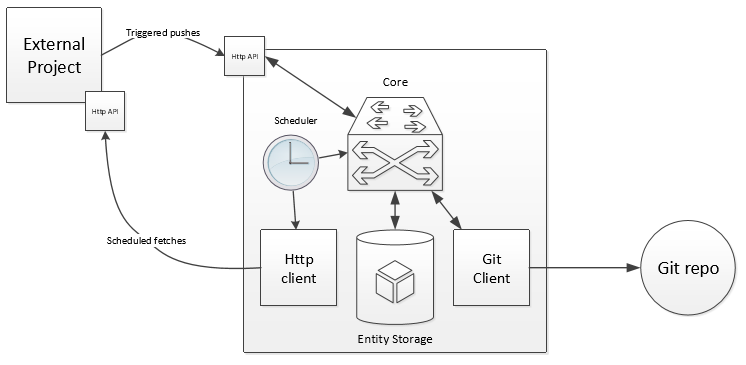
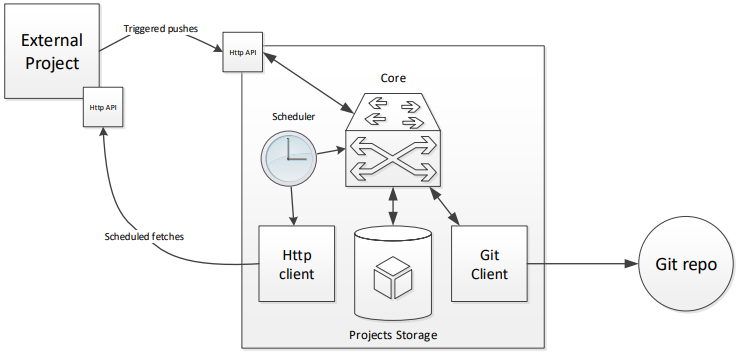
updated docs a bit

diff --git a/docs/model.rst b/docs/model.rst
@@ -4,11 +4,8 @@
 
 Основные сущности:
 
-- проект (имя, токен, описание, url endpoint для фетчинга DAGов, настройки git репы)
-- DAG (YAML) (проект, имя, описание, YAML, статус)
-- update event (событие обновления, не обязательно приводит к deploymentу)
-- deployment (сам акт выкадки ресурсов) (зачем? и так есть git log)
-- какая-то история просто на всё?
-- история DAGа -<>-
+- проект (имя, токен, url endpoint для фетчинга DAGов, настройки git репы)
+- DAG (YAML) (проект, имя, YAML)
+
 
 Имя проекта уникально. Имя DAGа в рамках проекта уникально.

diff --git a/docs/stack.rst b/docs/stack.rst
@@ -5,14 +5,11 @@ Stack
 Предлагаемый stack:
 
 - Scala 2.13
-- ZIO 1.0
+- ZIO 1.0.3
 - http4s для web сервера
 - sttp для http клиента
-- doobie (если хранилище PG)
 - circe для Json
 - pureconfig
-- хз че для git клиента? Видимо сами напишем обвязку на базе Proccess
-- scheduler
 - что-то для запуска в режиме CLI (есть либа decline http://ben.kirw.in/decline/)
 - что для логирования?
-
+- zio-test для тестов

diff --git a/docs/components.rst b/docs/components.rst
@@ -5,11 +5,11 @@
 Основные компоненты системы: |components|
 
 - ядро
+- хранилище проектов
 - git repo client
 - http endpoint for DAG pushes
 - scheduler
 - dag/resource fetcher (http client)
-- entity storage
 - cli interface
 
 .. |components| image:: components.png
